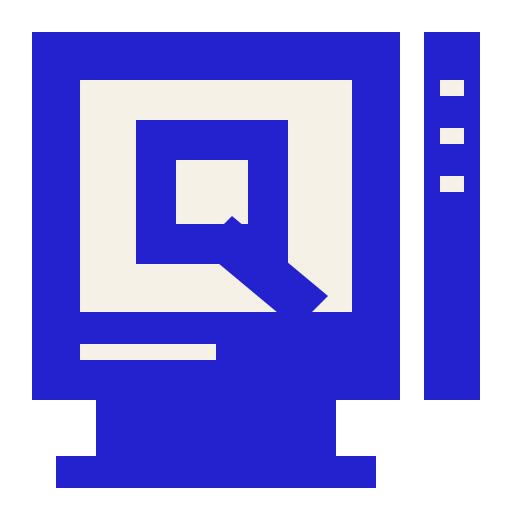
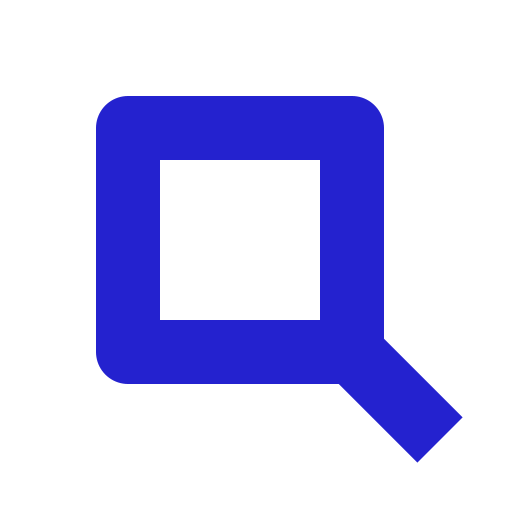
feat(intro): add a daylight desk to explore and simplify the q mark

diff --git a/src/intro/Intro.tsx b/src/intro/Intro.tsx
@@ -35,15 +35,7 @@ type Phase = PhaseId | "done" | "loading";
 /** This app's own boot icon: a small monitor in Base blue with the app's initial. */
 function BootIcon() {
   return (
-    <svg className="boot__icon" viewBox="0 0 16 16" width="64" height="64" shapeRendering="crispEdges" aria-hidden="true">
-      <rect x="2" y="1" width="12" height="12" fill="#000" />
-      <rect x="3" y="2" width="10" height="8" fill="#0052ff" />
-      <rect x="6" y="4" width="4" height="4" fill="#fff" />
-      <rect x="7" y="5" width="2" height="2" fill="#0052ff" />
-      <rect x="9" y="7" width="2" height="2" fill="#fff" />
-      <rect x="3" y="11" width="10" height="1" fill="#d7d1c0" />
-      <rect x="4" y="13" width="8" height="2" fill="#000" />
-    </svg>
+    <img className="boot__icon" src="/brand/icon.svg" width="64" height="64" alt="" aria-hidden="true" />
   );
 }
 
@@ -53,13 +45,13 @@ export function BootScreen({ phase, block }: { phase: Phase; block: BlockLine })
       {phase === "icon" && <BootIcon />}
       {(phase === "welcome" || phase === "ready") && (
         <div className="boot__dialog">
-          <p className="boot__welcome">Welcome to {BRAND.name}</p>
-          <p className="boot__line">An on-chain supercomputer for Base</p>
+          <p className="boot__welcome">welcome to {BRAND.slug}</p>
+          <p className="boot__line">a personal computer for base</p>
           <div className="boot__bar">
             <span />
           </div>
           <p className="boot__block">{blockText(block)}</p>
-          {phase === "ready" && <p className="boot__go">Click the screen to begin ▸</p>}
+          {phase === "ready" && <p className="boot__go">open desktop /</p>}
         </div>
       )}
       {(phase === "zoom" || phase === "fade" || phase === "done") && (
@@ -73,8 +65,8 @@ export function BootScreen({ phase, block }: { phase: Phase; block: BlockLine })
 
 /** The line under the machine: what the visitor can do right now, or nothing. */
 export function hintFor(phase: Phase): string | null {
-  if (phase === "dark" || phase === "idle") return "Drag to look around · scroll to lean in · click the Macintosh to switch it on";
-  if (phase === "ready") return "Click the screen to go in";
+  if (phase === "dark" || phase === "idle") return "drag to explore / scroll to zoom / click to start";
+  if (phase === "ready") return "click the screen / open desktop";
   return null;
 }
 
@@ -93,6 +85,7 @@ export const CLICK_PX = 6;
 
 export type IntroProps = {
   onDone(): void;
+  explore?: boolean;
   /** where three.js and the scene come from — a test hands in its own */
   start?: typeof startScene;
   /** milliseconds, monotonic */
@@ -103,7 +96,7 @@ const FADE_AT = startOf("fade");
 /** One function for the life of the module: a new one per render would restart the scene on every phase. */
 const now = () => performance.now();
 
-export function Intro({ onDone, start = startScene, clock = now }: IntroProps) {
+export function Intro({ onDone, explore = false, start = startScene, clock = now }: IntroProps) {
   const stage = useRef<HTMLDivElement>(null);
   const [screenEl] = useState(() => {
     const el = document.createElement("div");
@@ -124,6 +117,7 @@ export function Intro({ onDone, start = startScene, clock = now }: IntroProps) {
   const sceneRef = useRef<IntroScene | null>(null);
   const [hover, setHover] = useState(false);
   const [loaded, setLoaded] = useState(0);
+  const exploreDone = useRef(false);
 
   useEffect(() => {
     let alive = true;
@@ -165,7 +159,8 @@ export function Intro({ onDone, start = startScene, clock = now }: IntroProps) {
             t0 = clock() - jump.current;
             jump.current = null;
           }
-          const ms = clock() - t0;
+          const elapsed = clock() - t0;
+          const ms = explore && !exploreDone.current ? Math.min(elapsed, startOf("zoom") - 1) : elapsed;
           at.current = ms;
           const { id } = phaseAt(ms);
           if (id !== last) {
@@ -192,15 +187,17 @@ export function Intro({ onDone, start = startScene, clock = now }: IntroProps) {
       sceneRef.current = null;
       scene?.dispose();
     };
-  }, [start, clock, screenEl]);
+  }, [start, clock, screenEl, explore]);
 
   const skip = useCallback(() => {
+    exploreDone.current = true;
     if (phaseNow.current === "loading") return finish.current();
     if (phaseNow.current !== "fade" && phaseNow.current !== "done") jump.current = FADE_AT;
   }, []);
 
   /** Switch the machine on, or go in: the visitor's one action, wherever the intro is waiting. */
   const advance = useCallback(() => {
+    if (phaseNow.current === "ready") exploreDone.current = true;
     const to = advanceFrom(at.current);
     if (to !== null) jump.current = to;
   }, []);
@@ -268,6 +265,7 @@ export function Intro({ onDone, start = startScene, clock = now }: IntroProps) {
         </div>
       )}
       {hintFor(phase) ? <p className="intro__hint">{hintFor(phase)}</p> : null}
+      {phase === "ready" && <button type="button" className="intro__enter" onClick={advance}>open desktop</button>}
       <button
         type="button"
         className="intro__skip"

diff --git a/tests/intro.test.tsx b/tests/intro.test.tsx
@@ -67,11 +67,12 @@ function chain(block: unknown = RX.blockNumber) {
 /** The tube's element, as the component handed it to the scene — the boot screen renders into it. */
 let tube: HTMLElement = document.createElement("div");
 
-async function mount(start: (...a: Parameters<typeof import("@/intro/start").startScene>) => Promise<IntroScene>) {
+async function mount(start: (...a: Parameters<typeof import("@/intro/start").startScene>) => Promise<IntroScene>, explore = false) {
   const onDone = vi.fn();
   const view = render(
     <Intro
       onDone={onDone}
+      explore={explore}
       start={(host, el, size, onStep) => {
         tube = el;
         return start(host, el, size, onStep);
@@ -93,15 +94,28 @@ describe("the boot screen", () => {
   it("shows the icon, then the welcome box, then the desktop the page is about to be", () => {
     const at = (phase: Parameters<typeof BootScreen>[0]["phase"]) => render(<BootScreen phase={phase} block={{ kind: "reading" }} />).container;
     expect(at("icon").querySelector(".boot__icon")).not.toBeNull();
-    expect(at("welcome").textContent).toContain("Welcome to Quadra");
+    expect(at("welcome").textContent).toContain("welcome to quadra");
     expect(at("welcome").textContent).not.toContain("Click the screen");
-    expect(at("ready").textContent).toContain("Click the screen to begin ▸");
+    expect(at("ready").textContent).toContain("open desktop /");
     for (const p of ["zoom", "fade", "done"] as const) expect(at(p).querySelector(".boot__desk")).not.toBeNull();
     expect(at("dark").textContent).toBe("");
   });
 });
 
 describe("the intro", () => {
+  it("keeps explore mode on the ready screen until the visitor enters", async () => {
+    chain();
+    const { scene } = fakeScene("screen");
+    const { view, onDone } = await mount(async () => scene, true);
+    await step(TOTAL_MS + 1000);
+    expect(view.container.querySelector(".intro")).toHaveClass("intro--ready");
+    expect(onDone).not.toHaveBeenCalled();
+    fireEvent.click(screen.getByRole("button", { name: "open desktop" }));
+    await step(TOTAL_MS + 1010);
+    expect(view.container.querySelector(".intro")).toHaveClass("intro--zoom");
+    await step(TOTAL_MS * 2 + 2000);
+    expect(onDone).toHaveBeenCalledOnce();
+  });
   it("plays every phase on its clock, draws each frame, and ends by handing over", async () => {
     chain();
     const { scene, drawn } = fakeScene();

diff --git a/src/intro/machine.ts b/src/intro/machine.ts
@@ -111,7 +111,7 @@ export function buildMachine(): Machine {
   const dark = paint(plastic(SLOT, 0.5));
 
   // the desk
-  const desk = add(keep(new PlaneGeometry(60, 60)), paint(new MeshStandardMaterial({ color: "#16171c", roughness: 0.9 })), 0, 0, 0, false);
+  const desk = add(keep(new PlaneGeometry(60, 60)), paint(new MeshStandardMaterial({ color: "#86674c", roughness: 0.85 })), 0, 0, 0, false);
   desk.rotation.x = -Math.PI / 2;
 
   // the case: low and wide, a floppy slot on the right, the power light on the left
@@ -120,6 +120,8 @@ export function buildMachine(): Machine {
   add(keep(new RoundedBoxGeometry(1.15, 0.24, 0.04, 2, 0.02)), trim, 1.05, 0.46, 1.9);
   add(keep(new BoxGeometry(0.9, 0.05, 0.03)), dark, 1.05, 0.46, 1.915);
   add(keep(new BoxGeometry(0.5, 0.11, 0.02)), trim, -1.2, 0.46, 1.905);
+  const vent = keep(new BoxGeometry(0.025, 0.19, 0.012));
+  for (let i = 0; i < 19; i++) add(vent, dark, -1.5 + i * 0.065, 0.45, 1.91, false);
 
   const ledGeometry = keep(new CylinderGeometry(0.035, 0.035, 0.03, 12));
   const ledCase = add(ledGeometry, paint(new MeshStandardMaterial({ color: LED_OFF, emissive: LED_ON, emissiveIntensity: 0 })), -1.65, 0.46, 1.905, false);
@@ -142,6 +144,8 @@ export function buildMachine(): Machine {
 
   // the monitor's chin: a vent line and its own power light
   add(keep(new BoxGeometry(1.2, 0.02, 0.02)), trim, -0.6, 1.18, 0.905);
+  const chinVent = keep(new BoxGeometry(0.018, 0.12, 0.015));
+  for (let i = 0; i < 22; i++) add(chinVent, dark, -1.45 + i * 0.055, 1.16, 0.91, false);
   const ledMonitor = add(ledGeometry, paint(new MeshStandardMaterial({ color: LED_OFF, emissive: LED_ON, emissiveIntensity: 0 })), 1.45, 1.18, 0.905, false);
   ledMonitor.rotation.x = Math.PI / 2;
 
@@ -163,6 +167,7 @@ export function buildMachine(): Machine {
 
   // the mouse, to the right
   add(keep(new RoundedBoxGeometry(0.55, 0.2, 0.9, 3, 0.09)), body, 3.15, 0.1, 3.5);
+  add(keep(new BoxGeometry(0.46, 0.012, 0.016)), trim, 3.15, 0.2, 3.38, false);
 
   const leds = [ledCase, ledMonitor];
   return {

diff --git a/src/styles/workspace.css b/src/styles/workspace.css
@@ -130,3 +130,23 @@
 .taskbar__wallet { white-space: nowrap; font-size: 11px; }
 .tray__sound { font: 10px var(--font-mono); padding: 3px 5px; white-space: nowrap; }
 @media(max-width:380px) { .tray__clock { display: none; } }
+/* Daylight boot: the same cobalt and paper palette continues through the CRT. */
+.intro { background: radial-gradient(ellipse at 35% 35%, #e2e4dc, #c8c6be 70%, #afbfc9); }
+.intro__hint { color: #343b43; font: 11px var(--font-mono); text-transform: lowercase; padding: 0 80px; }
+.intro__skip { color: #252a31; background: #f4f0e6; border: 1px solid #686961; border-radius: 0; text-transform: lowercase; }
+.intro__loading { color: #252a31; }
+.intro__step { text-transform: lowercase; }
+.boot--icon, .boot--welcome, .boot--ready { background: #244f86; }
+.boot__dialog { width: 470px; padding: 28px 30px; background: #f4f0e6; border: 1px solid #222; box-shadow: 4px 4px 0 #1118; font-family: var(--font-ui); }
+.boot__welcome { font: bold 36px Georgia,serif; letter-spacing: -.03em; }
+.boot__line { font-size: 15px; margin: 10px 0 22px; }
+.boot__bar { height: 8px; border-color: #7d776d; }
+.boot__bar span { background: #2422cf; }
+.boot__go { font: 13px var(--font-mono); color: #2422cf; }
+.boot__tube::after { opacity: .35; }
+.boot__desk { background-image: linear-gradient(100deg,#183f74e8,#19417a4d),url('/brand/computer-sky.webp'); background-size: cover; background-position: center; }
+.boot__desk span { text-transform: lowercase; font-family: Georgia,serif; text-shadow: none; }
+.intro__enter { position: absolute; bottom: 48px; left: 50%; transform: translateX(-50%); padding: 10px 20px; background: #2422cf; color: #f4f0e6; border: 1px solid #2422cf; box-shadow: 2px 2px 0 #272627; font: 12px var(--font-mono); cursor: pointer; }
+.intro__enter:focus-visible { outline: 2px solid #2422cf; outline-offset: 5px; }
+html:has(.intro), body:has(.intro) { overflow: hidden; }
+.intro__hint { bottom: 94px; white-space: normal; padding: 0 24px; }

diff --git a/src/intro/scene.ts b/src/intro/scene.ts
@@ -27,7 +27,7 @@ export type GL = {
 export const SCREEN_PX = { width: 640, height: 480 } as const;
 export const FOV = 30;
 /** The room's darkness — the same colour as the overlay's CSS background at its edges. */
-export const ROOM = "#0b0d13";
+export const ROOM = "#c8c6be";
 
 export type Pointer = { x: number; y: number };
 
@@ -62,7 +62,7 @@ const DARK_MS = PHASES.find((p) => p.id === "dark")!.ms;
 export function createScene(o: SceneOptions): IntroScene {
   const scene = new Scene();
   scene.environment = o.environment;
-  scene.environmentIntensity = 0.35;
+  scene.environmentIntensity = 0.6;
   // the desk runs off into the dark of the room instead of ending at a horizon line
   const fog = new Fog(ROOM, 16, 34);
   scene.fog = fog;
@@ -72,20 +72,23 @@ export function createScene(o: SceneOptions): IntroScene {
   const things = buildRoom();
   scene.add(things.group);
 
-  const hemi = new HemisphereLight("#cdd8ff", "#2a2420", 0.55);
+  const hemi = new HemisphereLight("#e1edff", "#79684e", 0.9);
   const key = new DirectionalLight("#fff1dc", 2.4);
   key.position.set(-5, 9, 7);
   key.castShadow = true;
   key.shadow.mapSize.set(1024, 1024);
+  key.shadow.bias = -0.00015;
+  key.shadow.normalBias = 0.025;
+  key.shadow.radius = 3;
   Object.assign(key.shadow.camera, { left: -7, right: 7, top: 7, bottom: -7 });
-  const rim = new DirectionalLight("#6f8cff", 1.2);
+  const rim = new DirectionalLight("#a8d4ff", 1.2);
   rim.position.set(6, 5, -6);
   // the tube's own light on the keyboard and the desk, once it is on
   const glow = new PointLight("#cfd8e6", 0, 9, 2);
   glow.position.set(machine.screen.center.x, machine.screen.center.y, machine.screen.center.z + 1.4);
   scene.add(hemi, key, rim, glow);
   const room = [
-    [hemi, 0.55],
+    [hemi, 0.9],
     [key, 2.4],
     [rim, 1.2],
   ] as const;

diff --git a/src/intro/room.ts b/src/intro/room.ts
@@ -36,6 +36,23 @@ export function buildRoom(): Room {
     return mesh;
   };
 
+  // Daylight studio: a warm wall, a blue window and a cobalt work mat anchor the scene.
+  const wall = paint("#ded5c1", 0.95);
+  const framePaint = paint("#f4f0e6", 0.8);
+  add(keep(new BoxGeometry(30, 14, 0.15)), wall, 0, 5, -5.8);
+  add(keep(new BoxGeometry(4.6, 4.1, 0.12)), framePaint, -6, 4, -5.65);
+  add(keep(new BoxGeometry(4.25, 3.75, 0.05)), paint("#8ebdda", 0.8), -6, 4, -5.55);
+  add(keep(new BoxGeometry(0.1, 3.8, 0.12)), framePaint, -6, 4, -5.48);
+  add(keep(new BoxGeometry(4.25, 0.1, 0.12)), framePaint, -6, 4, -5.48);
+  add(keep(new BoxGeometry(5, 0.12, 0.65)), framePaint, -6, 1.95, -5.3);
+  const mat = paint("#264a7a", 0.95);
+  add(keep(new BoxGeometry(8.3, 0.012, 4.6)), mat, 0, 0.007, 2.9);
+  const grid = paint("#8294aa", 0.95);
+  const gridX = keep(new BoxGeometry(8.1, 0.003, 0.009));
+  const gridZ = keep(new BoxGeometry(0.009, 0.003, 4.4));
+  for (let i = 0; i < 10; i++) add(gridX, grid, 0, 0.016, 0.75 + i * 0.47);
+  for (let i = 0; i < 18; i++) add(gridZ, grid, -4 + i * 0.47, 0.016, 2.9);
+
   // floppy disks, three high, left of the keyboard — each with its metal shutter and label
   const disk = keep(new BoxGeometry(0.9, 0.032, 0.94));
   const shutter = keep(new BoxGeometry(0.42, 0.036, 0.3));
@@ -83,7 +100,7 @@ export function buildRoom(): Room {
     return p;
   };
   // low enough on the wall to sit inside the opening shot (MEASURED: at y 4.3 the frames were cut off)
-  const q = poster(-3.4, 3.3, 0.02, "#e9e4d6");
+  const q = poster(-2.7, 4.2, 0.02, "#e9e4d6");
   const lit = paint(BASE_BLUE, 0.6);
   POSTER_Q.forEach((row, r) =>
     [...row].forEach((c, col) => {

diff --git a/src/App.tsx b/src/App.tsx
@@ -115,11 +115,14 @@ function Home() {
   const [intro, setIntro] = useState(() =>
     shouldPlayIntro({ search: params.toString(), matchMedia: window.matchMedia?.bind(window), webgl: () => hasWebGL(document) }),
   );
-  const endIntro = useCallback(() => setIntro(false), []);
   // decided once too: the Welcome screen follows the intro (or a bare load), never a `?do=` link
   const [welcomeAtStart] = useState(() => showWelcome(params.toString()));
   const [welcome, setWelcome] = useState(welcomeAtStart);
   const closeWelcome = useCallback(() => setWelcome(false), []);
+  const endIntro = useCallback(() => {
+    setWelcome(false);
+    setIntro(false);
+  }, []);
 
   /** Reads `?do=` exactly once, on mount — after that, the URL follows the topmost window, not the other way round. */
   useEffect(() => {
@@ -255,7 +258,7 @@ function Home() {
       />
       {/* Q no longer greets on its own (2026-10-29, the owner: "extremely simple"): it speaks only when
           something real happens — a red verdict, fees waiting, a Rugsweeper win */}
-      {intro ? <Intro onDone={endIntro} /> : <Assistant greet={false} />}
+      {intro ? <Intro onDone={endIntro} explore={params.get("intro") === "explore"} /> : <Assistant greet={false} />}
       <LoanAlerts />
       {!intro && welcome && <Welcome onClose={closeWelcome} />}
       {!intro && <Screensaver />}

diff --git a/src/features/Desktop.tsx b/src/features/Desktop.tsx
@@ -39,7 +39,7 @@ export function Desktop({ onOpen, onHome }: DesktopProps) {
         <div className="workspace__pinned"><span>pinned /</span><button type="button" onClick={() => onOpen("basket")}>treasury basket</button><button type="button" onClick={() => onOpen("terminal")}>terminal</button></div>
         <footer className="workspace__foot"><span>research / trade / create</span><span>your wallet signs</span></footer>
       </section>
-      <nav className="home__links" aria-label="Product information"><Link to="/about">read me / about</Link><Link to="/docs">documentation</Link><Link to="/api">api</Link></nav>
+      <nav className="home__links" aria-label="Product information"><a href="/?intro=explore">explore / desk</a><Link to="/about">read me / about</Link><Link to="/docs">documentation</Link><Link to="/api">api</Link></nav>
       {/* the Markets gadget left the desktop on 2026-10-29 (one door per job: Coins shows the coins);
           it lives on in the Markets window, in My Computer > Research */}
       {/* the Trash keeps its own corner, the way it always has */}

diff --git a/CLAUDE.md b/CLAUDE.md
@@ -18,7 +18,7 @@ These came from ShunTr directly. They are not preferences.
 
 - **Brand voice (owner, 2026-11-16): outward-facing copy and tweets use lowercase English, short lines and plain ASCII punctuation. Use `/` for folder-like headings and `-` for concise entries. Anchor the voice in Macintosh Quadra, Finder, folders, files and windows. No emoji, decorative Unicode, arrows, smart quotes, hype or invented terminal commands. Folder paths are editorial labels, not claims about executable commands. Preserve case-sensitive addresses and identifiers exactly. Financial instructions must remain explicit.**
 
-- **App design (2026-11-17): `src/styles/workspace.css` supplies the current desktop and shared chrome over the Platinum base. Cobalt, warm paper, lowercase chrome, an applications workspace and the sky wallpaper replace the sparse icon column. `public/brand/icon.svg` is the canonical computer/q mark; `logo.svg`, `logo-on-blue.svg`, `wordmark.svg` and `icon-512.png` are its exports. Keep financial values and case-sensitive identifiers out of lowercase text transforms.**
+- **App design (2026-11-17): `src/styles/workspace.css` supplies the current desktop and shared chrome over the Platinum base. Cobalt, warm paper, lowercase chrome, an applications workspace and the sky wallpaper replace the sparse icon column. `public/brand/icon.svg` is the canonical single-stroke q mark; `logo.svg`, `logo-on-blue.svg`, `wordmark.svg` and `icon-512.png` are its exports. Keep financial values and case-sensitive identifiers out of lowercase text transforms.**
 
 - **Separate repo. Never build it inside `blue-agent`.** The two live side by side at
   `~/projects/quadra` and `~/projects/blue-agent`. Do not edit anything in `blue-agent` on
@@ -63,7 +63,7 @@ npm run gate
 ```
 
 That is `tsc --noEmit` → `vitest run --coverage` → `tsc --noEmit && vite build`. All three,
-in one go. Do not report "done" on a subset. **2352 tests in 135 files**, 100% on all four metrics, measured 2026-11-16 after Treasury Basket atomic batching (lib/callBatch.ts + panels/useBasketBatch.ts; EIP-5792, persisted pending IDs, fresh quotes and ordered simulation; docs/TREASURY_BASKET_BATCH.md); 2311/131 measured 2026-11-13 after the Stocks Maxxing builds: 1.1 "Paired with …" on a coin's page (panels/PairExposure.tsx — the quote's price and NAV, the coin in shares, the day's move split into the quote's and the coin's own), 3.3 the worst-weekend stress (skills/weekendGap.ts — Blue Agent's per-ticker `open_gap_pct`, through /api/weekend/scorecard?ticker=; Collateral Watch's STRESS row and Morpho rows; an alert when it would liquidate) and 3.1 the basket's share card (panels/BasketShare.tsx); 2288/128 earlier that day after the stocks plan's steps 1–3: the U.S. block (server/region.ts + lib/region.ts — Vercel's `x-vercel-ip-country`; an unread country blocks nothing), Treasury Basket (lib/basket.ts + panels/BasketPanel.tsx — one Relay swap per asset into the user's own wallet, a fresh quote per leg at signing, MEASURED: Relay refused the 4th quote in a row, so quotes are spaced and retried) and liquidation alerts (lib/loanWatch.ts — frozen key `quadra.loanwatch.v1` — and features/loanAlerts.tsx, Q speaking on a real read); 2251/125 on 2026-11-12 after Collateral Watch's share card (panels/CollateralShare.tsx) and the Base card's halftone sky; 2244/124 earlier that day after the share cards were redrawn (panels/cardKit.tsx: halftone sky, small windows, a selected italic lead line); 2243 earlier that day after Trade Depth's share card (panels/DepthShare.tsx) and Coinbase-stock tickers (`tokenFrom`: looked up in Coinbase's own list, the address shown); 2235/123 earlier that day after the post-push review (Trade Depth reads Relay's "impact is too high" refusal as a red measurement — MEASURED on PDDc, it had let the headline say no size moved the price past 2%); 2233 earlier that day after Collateral Watch read Morpho's five stock markets (config/collateral.ts MORPHO_STOCK_MARKETS); 2229 earlier that day after the Weekend window (Blue Agent's scorecard + diary through server/weekend.ts, lib/weekend.ts, panels/WeekendPanel.tsx; FLAGS.weekend); 2216/122 earlier that day after Trade Depth (skills/depth.ts — Relay at $1k/$10k/$100k each way, red past 2%; Trade's "Price impact" button); 2206/121 earlier that day after Collateral Watch (skills/collateral.ts, config/collateral.ts — Aave V4's MAG7 spoke, read back on chain); 2191/120 on 2026-11-11 after Base's 0.2 s blocks were read through one block clock (skills/blocktime.ts); 2187/119 on 2026-11-04 after the share card's tiles, logo route (server/logo.ts, api/logo), QR and red high-risk card; 2182 after the Token Verdict share card and its pinned lines (panels/VerdictShare.tsx); 2175 after the fee flow became an animated Platinum diagram (pages/Flywheel.tsx); 2174 after the About page (/about, live figures from the index and the furnace), the intro's loading steps and room (intro/room.ts), the shorter Welcome and `CONTRACTS.token` set to $QUADRA; 2167 after Home closed every window and cleared the URL (and the desktop's name became a way home); 2165 after the paid API sold its first 402 on Vercel (the owner's CDP key; `asSent` drops Vercel's `...path` parameter) and the index caught up (block 53,495,204: 10 coins, 3 creators, 20 trades); 2164 after the indexer took BASE_RPC_URL (the first Vercel deploy's index stopped at block 52,096,272 on a public 429); 2162 after a Blob store connected through OIDC (BLOB_STORE_ID, no token) was accepted; 2161 after the stored indexer and the Mac names (no `.exe`, "Read Me"); 2151 after the Vercel functions (T3: src/server/vercel.ts, api/ generated, vercel.json); 2147/113 on 2026-10-29 after the menu bar's Home button (2145 after the coin page's furnace block (lib/furnace.ts — Harvest for anyone, Buy back & burn for the furnace's treasury only; `shareOf` now treats a contract that refuses `agent()` as not a share)); 2136/112 after Relay's v3.2 pair was pinned beside v3 (Relay moved 2026-10-26; config/routes.ts RELAY_PAIRS); 2135 after RevenueShareDeployer was deployed and wired (2134 after the six launchpad additions (Pay with ETH for a stock-paired coin, every page of Coinbase's stocks, a share card, Verdict badges on Coins, where the 80% goes, staking into a RevenueShare)); 2104/107 after Coinbase's stock list began to be read past its first page (2101 after the simplification (one door per job: Check / Coins / Launch / Wallet on the desktop, the coin page trading through its own pool only, Token Verdict simulating a launchpad coin on its own pool)); 2085/105 measured 2026-10-28 after the Relay no-route fallback's missing branches were tested (2082 at the fallback's commit, which had left `relay.ts` and `SwapPanel.tsx` below 100% — the gate was red); 2081 measured 2026-10-22 after Explore Base, the coin page's CA, the compact small-number format and the Mac OS 8 "Platinum" redesign (2049/102 earlier that day, after v3's approved referrers reached the app, and re-measured the same day after v3's deploy, when v2-fixture test files were pinned to `launchFactoryV3: null` (`tests/v2only.ts`); 2041/102 earlier that day, after the desktop was reorganised into folders; 2017/101 on 2026-10-21, with the Base card program (`card`) and the Welcome screen in the tree; 1971/97 earlier that day, after the coin chart's frames and opening price; 1968/97 earlier that day, after the app was wired to launchpad v3; 1945/96 on 2026-10-14; 1918/95 before the coin page, same day) (1684/76 on 2026-10-02, before the "more fun" programs, the wallet's fees,
+in one go. Do not report "done" on a subset. **2353 tests in 135 files**, 100% on all four metrics, measured 2026-11-17 after the daylight 3D intro, optional explore mode, direct desktop handover and simplified q mark; 2352/135 measured 2026-11-16 after Treasury Basket atomic batching (lib/callBatch.ts + panels/useBasketBatch.ts; EIP-5792, persisted pending IDs, fresh quotes and ordered simulation; docs/TREASURY_BASKET_BATCH.md); 2311/131 measured 2026-11-13 after the Stocks Maxxing builds: 1.1 "Paired with …" on a coin's page (panels/PairExposure.tsx — the quote's price and NAV, the coin in shares, the day's move split into the quote's and the coin's own), 3.3 the worst-weekend stress (skills/weekendGap.ts — Blue Agent's per-ticker `open_gap_pct`, through /api/weekend/scorecard?ticker=; Collateral Watch's STRESS row and Morpho rows; an alert when it would liquidate) and 3.1 the basket's share card (panels/BasketShare.tsx); 2288/128 earlier that day after the stocks plan's steps 1–3: the U.S. block (server/region.ts + lib/region.ts — Vercel's `x-vercel-ip-country`; an unread country blocks nothing), Treasury Basket (lib/basket.ts + panels/BasketPanel.tsx — one Relay swap per asset into the user's own wallet, a fresh quote per leg at signing, MEASURED: Relay refused the 4th quote in a row, so quotes are spaced and retried) and liquidation alerts (lib/loanWatch.ts — frozen key `quadra.loanwatch.v1` — and features/loanAlerts.tsx, Q speaking on a real read); 2251/125 on 2026-11-12 after Collateral Watch's share card (panels/CollateralShare.tsx) and the Base card's halftone sky; 2244/124 earlier that day after the share cards were redrawn (panels/cardKit.tsx: halftone sky, small windows, a selected italic lead line); 2243 earlier that day after Trade Depth's share card (panels/DepthShare.tsx) and Coinbase-stock tickers (`tokenFrom`: looked up in Coinbase's own list, the address shown); 2235/123 earlier that day after the post-push review (Trade Depth reads Relay's "impact is too high" refusal as a red measurement — MEASURED on PDDc, it had let the headline say no size moved the price past 2%); 2233 earlier that day after Collateral Watch read Morpho's five stock markets (config/collateral.ts MORPHO_STOCK_MARKETS); 2229 earlier that day after the Weekend window (Blue Agent's scorecard + diary through server/weekend.ts, lib/weekend.ts, panels/WeekendPanel.tsx; FLAGS.weekend); 2216/122 earlier that day after Trade Depth (skills/depth.ts — Relay at $1k/$10k/$100k each way, red past 2%; Trade's "Price impact" button); 2206/121 earlier that day after Collateral Watch (skills/collateral.ts, config/collateral.ts — Aave V4's MAG7 spoke, read back on chain); 2191/120 on 2026-11-11 after Base's 0.2 s blocks were read through one block clock (skills/blocktime.ts); 2187/119 on 2026-11-04 after the share card's tiles, logo route (server/logo.ts, api/logo), QR and red high-risk card; 2182 after the Token Verdict share card and its pinned lines (panels/VerdictShare.tsx); 2175 after the fee flow became an animated Platinum diagram (pages/Flywheel.tsx); 2174 after the About page (/about, live figures from the index and the furnace), the intro's loading steps and room (intro/room.ts), the shorter Welcome and `CONTRACTS.token` set to $QUADRA; 2167 after Home closed every window and cleared the URL (and the desktop's name became a way home); 2165 after the paid API sold its first 402 on Vercel (the owner's CDP key; `asSent` drops Vercel's `...path` parameter) and the index caught up (block 53,495,204: 10 coins, 3 creators, 20 trades); 2164 after the indexer took BASE_RPC_URL (the first Vercel deploy's index stopped at block 52,096,272 on a public 429); 2162 after a Blob store connected through OIDC (BLOB_STORE_ID, no token) was accepted; 2161 after the stored indexer and the Mac names (no `.exe`, "Read Me"); 2151 after the Vercel functions (T3: src/server/vercel.ts, api/ generated, vercel.json); 2147/113 on 2026-10-29 after the menu bar's Home button (2145 after the coin page's furnace block (lib/furnace.ts — Harvest for anyone, Buy back & burn for the furnace's treasury only; `shareOf` now treats a contract that refuses `agent()` as not a share)); 2136/112 after Relay's v3.2 pair was pinned beside v3 (Relay moved 2026-10-26; config/routes.ts RELAY_PAIRS); 2135 after RevenueShareDeployer was deployed and wired (2134 after the six launchpad additions (Pay with ETH for a stock-paired coin, every page of Coinbase's stocks, a share card, Verdict badges on Coins, where the 80% goes, staking into a RevenueShare)); 2104/107 after Coinbase's stock list began to be read past its first page (2101 after the simplification (one door per job: Check / Coins / Launch / Wallet on the desktop, the coin page trading through its own pool only, Token Verdict simulating a launchpad coin on its own pool)); 2085/105 measured 2026-10-28 after the Relay no-route fallback's missing branches were tested (2082 at the fallback's commit, which had left `relay.ts` and `SwapPanel.tsx` below 100% — the gate was red); 2081 measured 2026-10-22 after Explore Base, the coin page's CA, the compact small-number format and the Mac OS 8 "Platinum" redesign (2049/102 earlier that day, after v3's approved referrers reached the app, and re-measured the same day after v3's deploy, when v2-fixture test files were pinned to `launchFactoryV3: null` (`tests/v2only.ts`); 2041/102 earlier that day, after the desktop was reorganised into folders; 2017/101 on 2026-10-21, with the Base card program (`card`) and the Welcome screen in the tree; 1971/97 earlier that day, after the coin chart's frames and opening price; 1968/97 earlier that day, after the app was wired to launchpad v3; 1945/96 on 2026-10-14; 1918/95 before the coin page, same day) (1684/76 on 2026-10-02, before the "more fun" programs, the wallet's fees,
 pool trading, the indexer and launchpad recognition; 1682/76 before the doc audit's fixes) — it FELL from 1627/68 the same day, deliberately: o1 was taken out
 of Launch and `tests/launch.test.tsx` went with it to `archive/o1/` (1608/67 before the verdict, radar and Launch window read the
 launchpad; 1585/66 before the launchpad's window; 1548/60 on 2026-10-01 before the 3D intro; 1547/59 on 2026-09-30, before the seven basic skills were deleted

diff --git a/TASKS.md b/TASKS.md
@@ -6,7 +6,7 @@ Read `CLAUDE.md` first — it has the constraints and the rules that exist becau
 something broke. This file is only the work.
 
 **Before you start anything:** `npm install`, then `npm run gate`. It must be green
-(tsc clean, **2352 tests in 135 files** as measured 2026-11-16 (Treasury Basket atomic batching; EIP-5792, pending recovery and batch simulation; docs/TREASURY_BASKET_BATCH.md); 2311/131 measured 2026-11-13 (Stocks Maxxing 1.1 / 3.3 / 3.1); 2288/128 earlier that day (U.S. block, Treasury Basket, liquidation alerts); 2251/125 on 2026-11-12 (Collateral card, Base card sky); 2244/124 earlier that day (share cards redrawn); 2243 earlier that day (Depth's share card, stock tickers); 2235/123 earlier that day (post-push review); 2233 earlier that day (Morpho in Collateral Watch); 2229 earlier that day (the Weekend window); 2216/122 earlier that day (Trade Depth); 2206/121 earlier that day (Collateral Watch); 2191/120 on 2026-11-11 (Base's 0.2 s block clock); 2187/119 on 2026-11-04; 2167/115 before the About page; 2165 before Home cleared the URL; 2164 before asSent; 2162 before BASE_RPC_URL; 2161 before OIDC Blob; 2151 before the stored indexer; 2147/113 on 2026-10-29; 2145 before Home; 2136/112 before the furnace block; 2135 before Relay v3.2; 2134 before the deployer was wired; 2104/107 earlier that day; 2085/105 on 2026-10-28; 2081 on 2026-10-22, after Explore Base, the coin page's CA and the compact small-number format (2049/102 earlier that day, after v3's approved referrers reached the app; 2041/102 earlier that day, after the desktop was reorganised into folders; 2017/101 on 2026-10-21; 1971/97 before the Welcome screen and the Paint card, 2026-10-21) as measured 2026-10-21, after the coin chart's frames and opening price — 1968/97 earlier that day after wiring the app to launchpad v3, 1945/96 on 2026-10-14 (1918/95 before the coin page, same day), 1684/76 on 2026-10-02, 1682/76 before the doc
+(tsc clean, **2353 tests in 135 files** as measured 2026-11-17 (daylight intro, explore mode, direct desktop handover and simplified q mark); 2352/135 measured 2026-11-16 (Treasury Basket atomic batching; EIP-5792, pending recovery and batch simulation; docs/TREASURY_BASKET_BATCH.md); 2311/131 measured 2026-11-13 (Stocks Maxxing 1.1 / 3.3 / 3.1); 2288/128 earlier that day (U.S. block, Treasury Basket, liquidation alerts); 2251/125 on 2026-11-12 (Collateral card, Base card sky); 2244/124 earlier that day (share cards redrawn); 2243 earlier that day (Depth's share card, stock tickers); 2235/123 earlier that day (post-push review); 2233 earlier that day (Morpho in Collateral Watch); 2229 earlier that day (the Weekend window); 2216/122 earlier that day (Trade Depth); 2206/121 earlier that day (Collateral Watch); 2191/120 on 2026-11-11 (Base's 0.2 s block clock); 2187/119 on 2026-11-04; 2167/115 before the About page; 2165 before Home cleared the URL; 2164 before asSent; 2162 before BASE_RPC_URL; 2161 before OIDC Blob; 2151 before the stored indexer; 2147/113 on 2026-10-29; 2145 before Home; 2136/112 before the furnace block; 2135 before Relay v3.2; 2134 before the deployer was wired; 2104/107 earlier that day; 2085/105 on 2026-10-28; 2081 on 2026-10-22, after Explore Base, the coin page's CA and the compact small-number format (2049/102 earlier that day, after v3's approved referrers reached the app; 2041/102 earlier that day, after the desktop was reorganised into folders; 2017/101 on 2026-10-21; 1971/97 before the Welcome screen and the Paint card, 2026-10-21) as measured 2026-10-21, after the coin chart's frames and opening price — 1968/97 earlier that day after wiring the app to launchpad v3, 1945/96 on 2026-10-14 (1918/95 before the coin page, same day), 1684/76 on 2026-10-02, 1682/76 before the doc
 audit's fixes —; `npm run gate:contracts` 119 tests (v2 30 + v3 59 + RevenueShare 30, 2026-10-28; 89 = 30 + 59 with approved referrers, 2026-10-22; 77 = 30 + 47 before), 100% over 4 files — 100% on
 statements/branches/functions/lines, build succeeds). If it is not green on a fresh
 checkout, fix that before touching a task — you are looking at drift, not at your own
